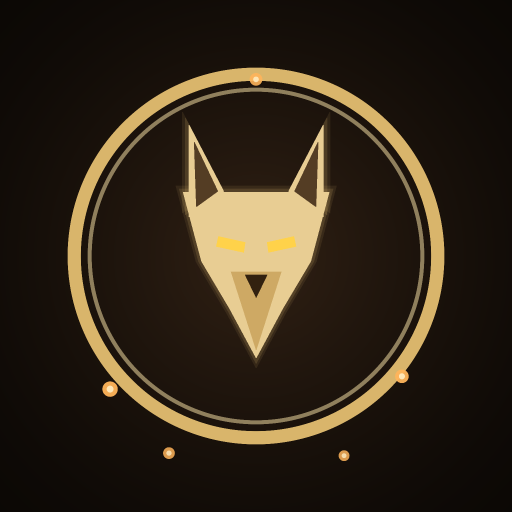
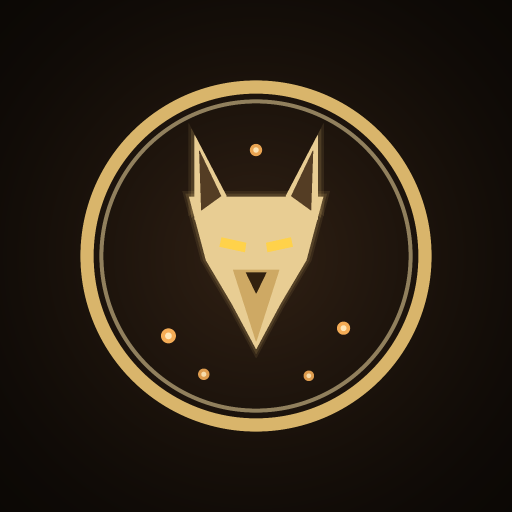
图标修正：自适应前景余烬内收（最大半径 0.313 落在安全区）、maskable 环缩小到 80% 安全圆内

diff --git a/scripts/make-icons.js b/scripts/make-icons.js
@@ -222,18 +222,35 @@ function drawIcon(size, opt) {
   fillPoly(cv, eyeL, '#ffd24a', 1);
   fillPoly(cv, eyeR, '#ffd24a', 1);
 
-  // 余烬：放大提亮，位置分布在下环两侧 + 上方一颗
+  // 余烬：放大提亮；emberR 可把位置向中心收缩（自适应前景要留在安全区内）
+  const erScale = opt.emberR == null ? 1 : opt.emberR;
   const embers = [
     [0.215, 0.760, 0.017, 0.95], [0.785, 0.735, 0.015, 0.95],
     [0.330, 0.885, 0.013, 0.85], [0.672, 0.890, 0.012, 0.85],
     [0.500, 0.155, 0.014, 0.9],
   ];
   for (const [ex, ey, er, ea] of embers) {
-    fillCircle(cv, P(ex), P(ey), P(er * (0.6 + 0.4 * scale)), '#ffb45a', ea);
-    fillCircle(cv, P(ex), P(ey), P(er * 0.45 * (0.6 + 0.4 * scale)), '#fff0c8', ea * 0.9);
+    const px = 0.5 + (ex - 0.5) * erScale;
+    const py = 0.5 + (ey - 0.5) * erScale;
+    const r = er * (0.6 + 0.4 * scale);
+    fillCircle(cv, P(px), P(py), P(r), '#ffb45a', ea);
+    fillCircle(cv, P(px), P(py), P(r * 0.45), '#fff0c8', ea * 0.9);
   }
 
   return downsample(cv, size);
+}
+
+/** 计算不透明像素的最大半径（用于校验安全区） */
+function maxRadius(rgba, size) {
+  let maxR = 0;
+  const c = (size - 1) / 2;
+  for (let y = 0; y < size; y++) for (let x = 0; x < size; x++) {
+    if (rgba[(y * size + x) * 4 + 3] > 16) {
+      const dx = (x - c) / size, dy = (y - c) / size;
+      maxR = Math.max(maxR, Math.sqrt(dx * dx + dy * dy));
+    }
+  }
+  return maxR;
 }
 
 /* ---------------- 输出 ---------------- */
@@ -243,18 +260,18 @@ fs.mkdirSync(outDir, { recursive: true });
 fs.mkdirSync(andDir, { recursive: true });
 
 const targets = [
-  // PWA / 网页图标：完整金环 + 狼头（头缩小到 0.9，下巴不再顶环）
+  // PWA / 网页图标：完整金环 + 狼头
   ['icons/icon-192.png', 192, { scale: 0.9, ringR: 0.437 }],
   ['icons/icon-512.png', 512, { scale: 0.9, ringR: 0.437 }],
   ['icons/apple-touch-icon.png', 180, { scale: 0.9, ringR: 0.437 }],
   ['icons/favicon-32.png', 32, { scale: 0.98, ringR: 0.42, ringW: 1.7 }],
-  // maskable：内容收进安全区（半径 ≤ 0.4）
-  ['icons/icon-maskable-512.png', 512, { scale: 0.72, ringR: 0.355 }],
-  // Android 自适应图标：前景层带金环（半径 0.30，落在 66% 安全区内），背景层只有渐变
+  // maskable：内容全部收进 80% 直径安全圆（半径 ≤ 0.4）
+  ['icons/icon-maskable-512.png', 512, { scale: 0.66, ringR: 0.33, emberR: 0.6 }],
+  // Android 自适应图标：前景层金环半径 0.30 + 余烬内收，整体落在 66% 安全圆内；背景层只有渐变
   ['android-app/assets/icon-only.png', 1024, { scale: 0.9, ringR: 0.437 }],
-  ['android-app/assets/icon-foreground.png', 1024, { scale: 0.55, ringR: 0.30, transparent: true }],
+  ['android-app/assets/icon-foreground.png', 1024, { scale: 0.55, ringR: 0.30, transparent: true, emberR: 0.34 }],
   ['android-app/assets/icon-background.png', 1024, { bgOnly: true }],
-  ['android-app/assets/splash.png', 2732, { scale: 0.42, ringR: 0.24, transparent: true }],
+  ['android-app/assets/splash.png', 2732, { scale: 0.42, ringR: 0.24, transparent: true, emberR: 0.5 }],
 ];
 
 for (const [rel, size, opt] of targets) {
@@ -263,6 +280,8 @@ for (const [rel, size, opt] of targets) {
   const rgba = drawIcon(size, opt);
   const png = encodePNG(size, size, rgba);
   fs.writeFileSync(file, png);
-  console.log(`${rel.padEnd(42)} ${size}×${size}  ${(png.length / 1024).toFixed(1)} KB`);
+  const r = maxRadius(rgba, size);
+  const zone = opt.transparent ? `  最大半径 ${r.toFixed(3)}${r <= 0.34 ? ' ✅安全' : (r <= 0.4 ? ' ⚠超66%但在80%内' : ' ❌超安全区')}` : '';
+  console.log(`${rel.padEnd(42)} ${size}×${size}  ${(png.length / 1024).toFixed(1)} KB${zone}`);
 }
 console.log('\n图标生成完成。');
